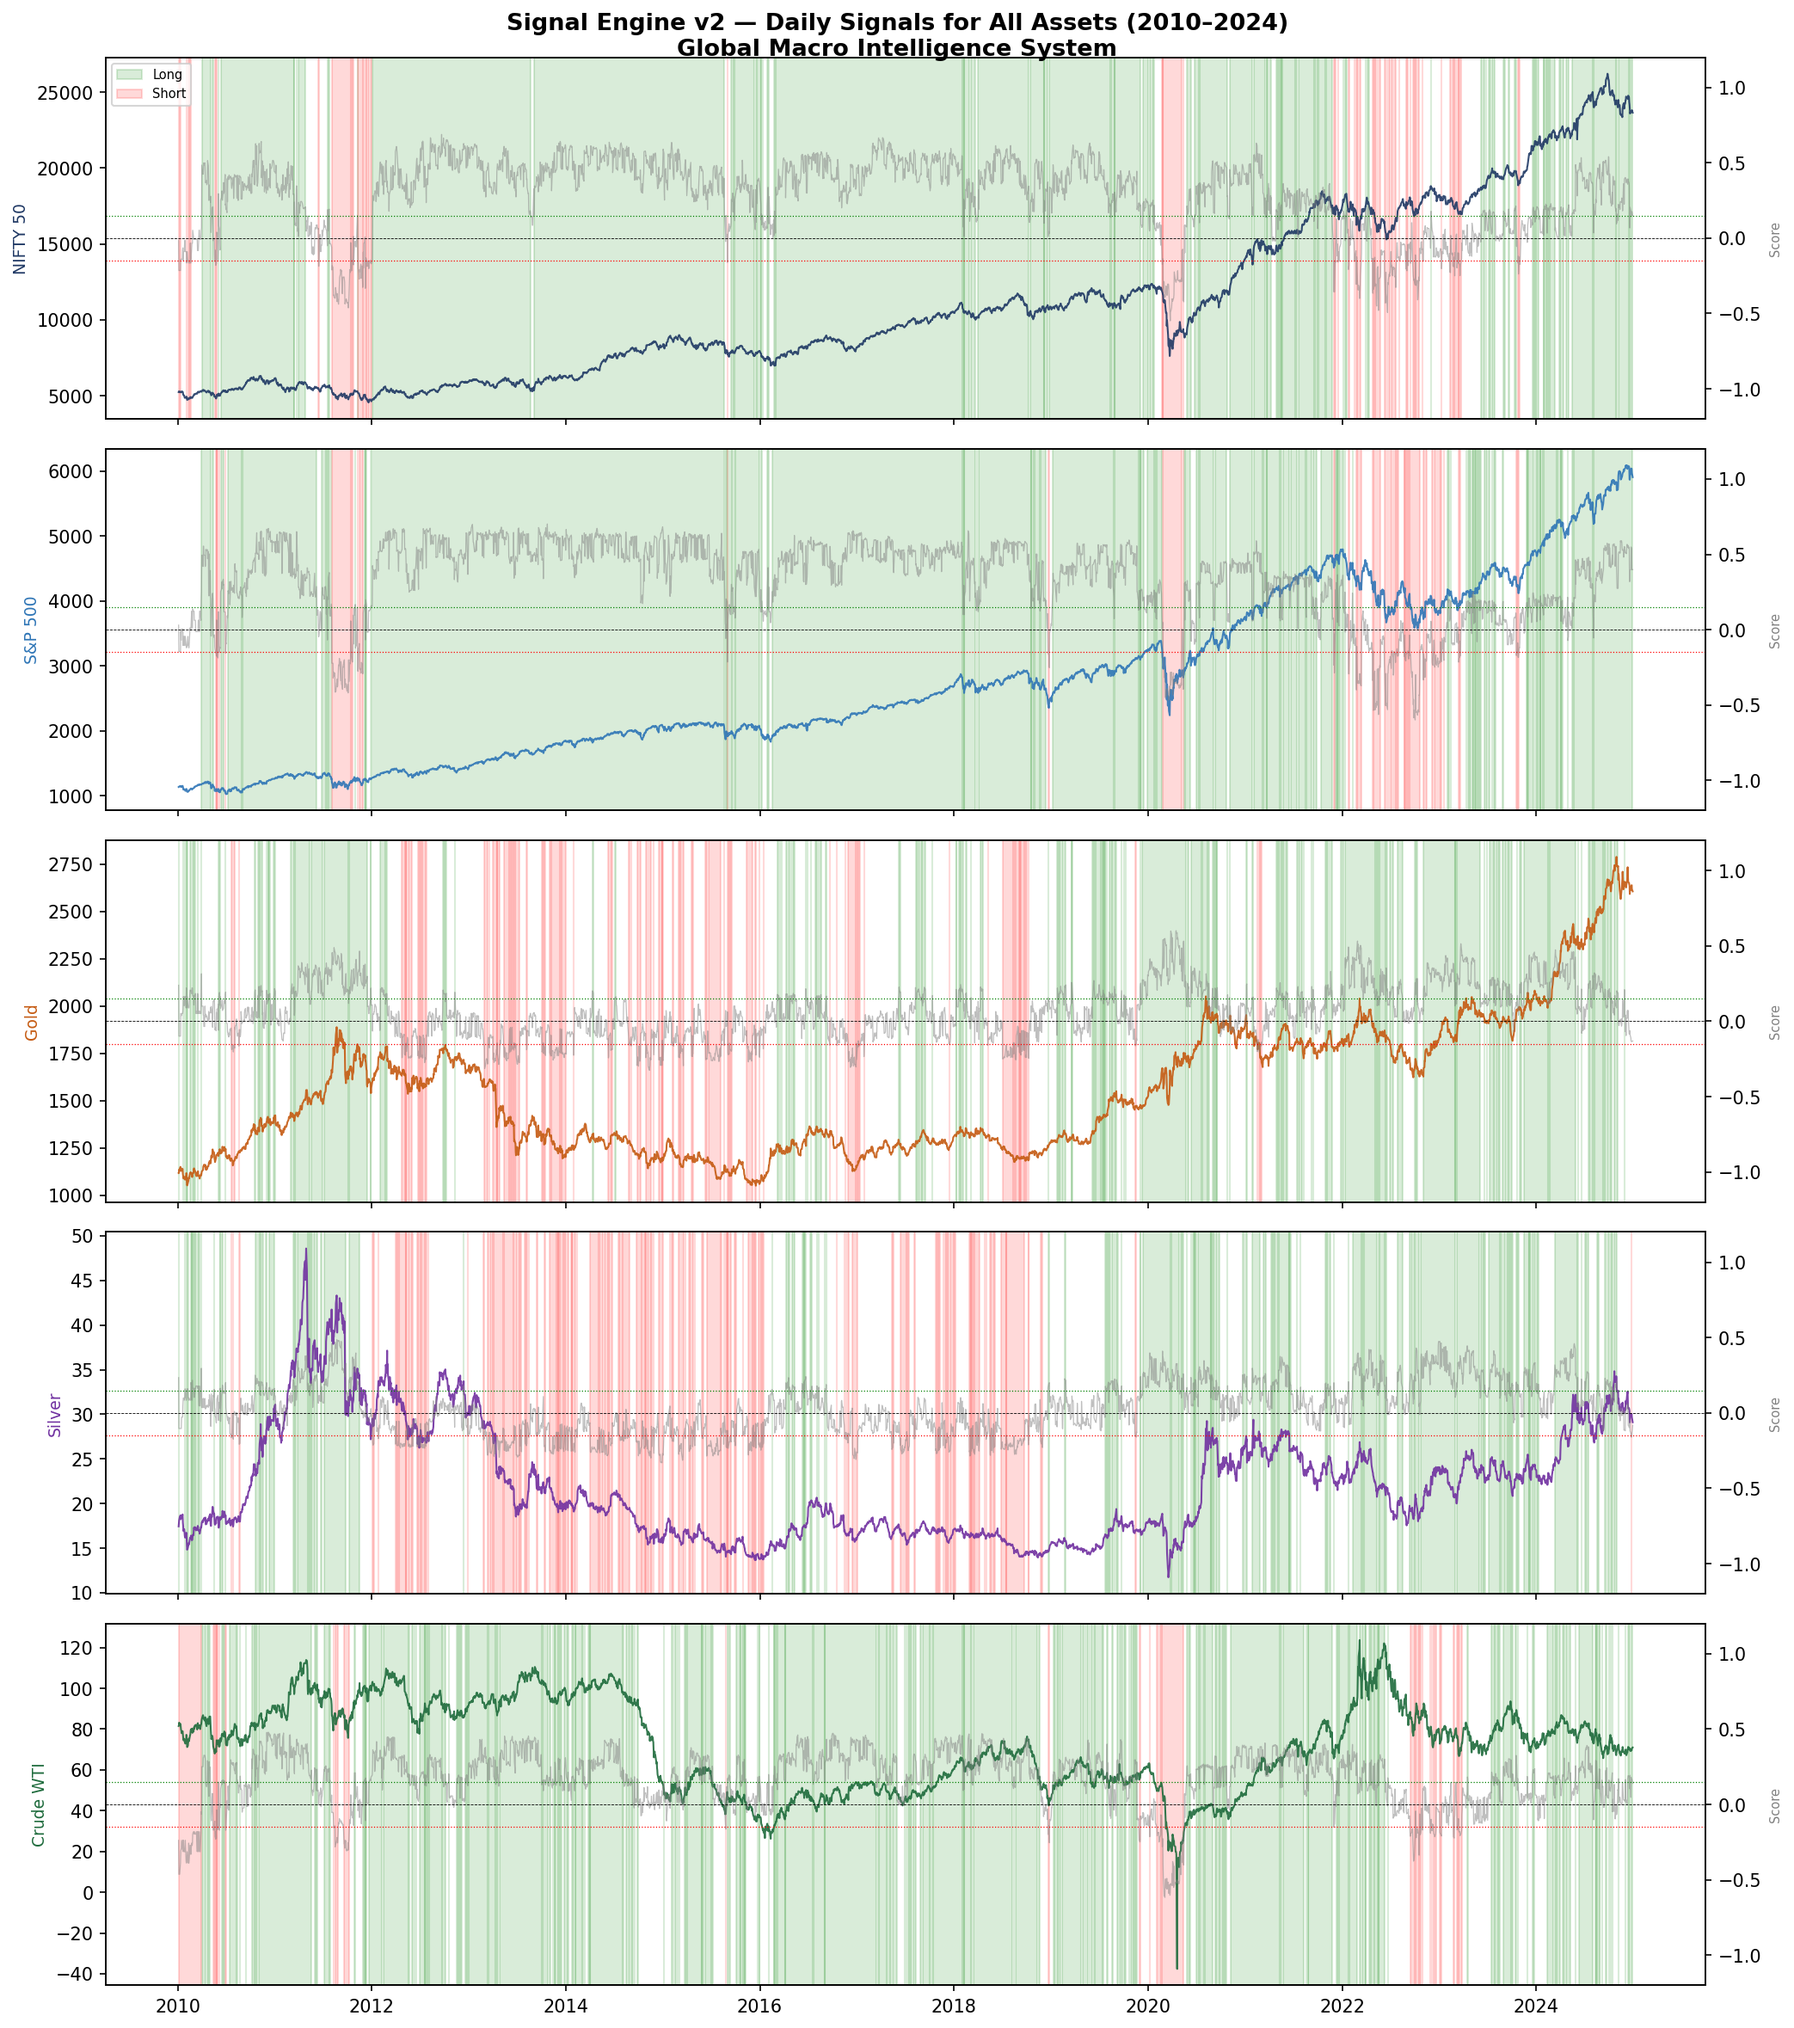
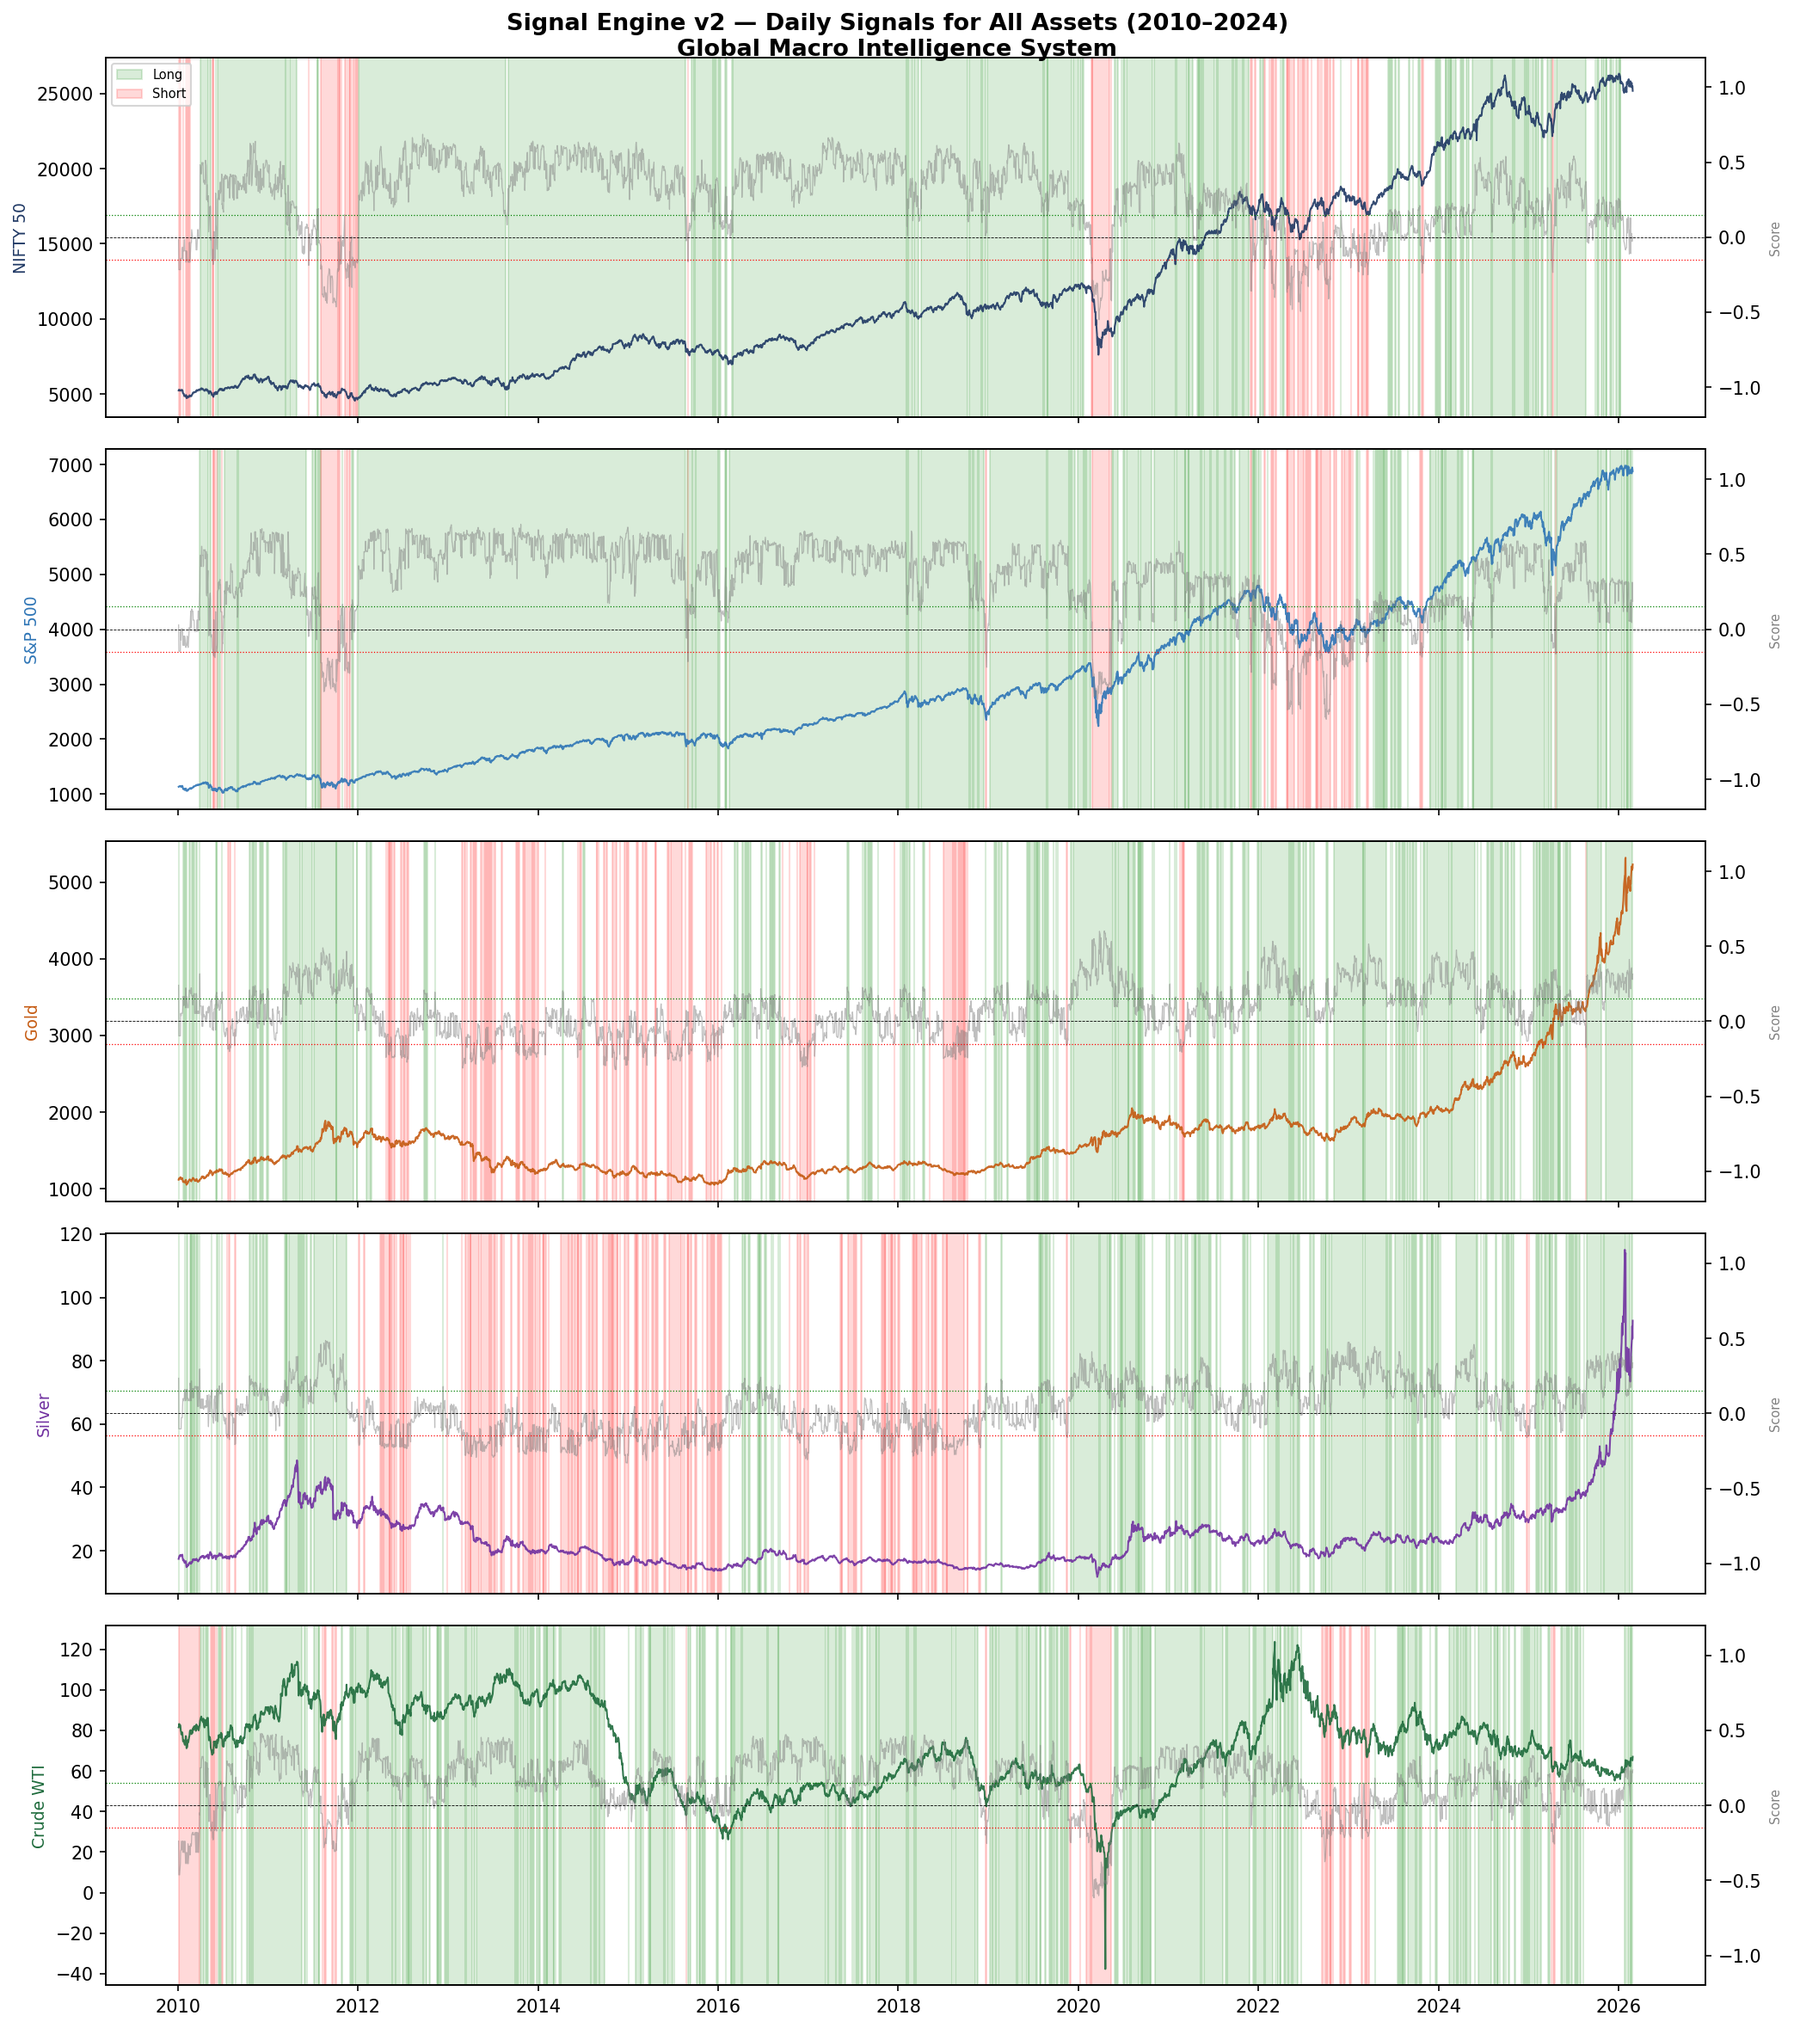
Live system detected US-Israel Iran strikes Black Swan event - Feb 28 2026

diff --git a/refresh_daily.py b/refresh_daily.py
@@ -1,0 +1,55 @@
+# ============================================================
+# DAILY REFRESH SCRIPT
+# Run this every morning before opening the dashboard
+# Takes about 2-3 minutes to complete
+# ============================================================
+
+import subprocess
+import sys
+import os
+from datetime import datetime
+
+BASE_PATH = os.path.dirname(os.path.abspath(__file__))
+
+def run_script(script_name):
+    print(f"\n{'='*50}")
+    print(f"Running {script_name}...")
+    print(f"{'='*50}")
+    result = subprocess.run(
+        [sys.executable, os.path.join(BASE_PATH, script_name)],
+        capture_output=False
+    )
+    if result.returncode == 0:
+        print(f"✅ {script_name} completed successfully")
+    else:
+        print(f"❌ {script_name} failed with error code {result.returncode}")
+    return result.returncode
+
+print(f"\n{'='*50}")
+print(f"GMIS DAILY REFRESH")
+print(f"{datetime.now().strftime('%A %d %B %Y — %H:%M')}")
+print(f"{'='*50}")
+
+scripts = [
+    '01_data_collection.py',    # Fresh prices
+    '02_macro_data.py',         # Fresh macro data
+    '03_database_setup.py',     # Rebuild database
+    '09_sentiment_engine.py',   # Live headlines
+    '12_signal_engine.py',      # Recalculate signals
+]
+
+failed = []
+for script in scripts:
+    code = run_script(script)
+    if code != 0:
+        failed.append(script)
+
+print(f"\n{'='*50}")
+print(f"REFRESH COMPLETE — {datetime.now().strftime('%H:%M')}")
+if failed:
+    print(f"⚠  Failed scripts: {', '.join(failed)}")
+else:
+    print(f"✅ All scripts completed successfully")
+    print(f"✅ Dashboard is ready with today's data")
+    print(f"\nRun: streamlit run dashboard.py")
+print(f"{'='*50}\n")

diff --git a/01_data_collection.py b/01_data_collection.py
@@ -8,7 +8,7 @@ import pandas as pd
 import os
 
 # ── Create data folder path ──────────────────────────────────
-data_path = os.path.join(os.path.dirname(os.path.abspath(__file__)), '..', 'data')
+data_path = os.path.join(os.path.dirname(os.path.abspath(__file__)), 'data')
 os.makedirs(data_path, exist_ok=True)
 
 # ── Define all assets to download ───────────────────────────
@@ -26,7 +26,8 @@ assets = {
 }
 
 START_DATE = '2010-01-01'
-END_DATE   = '2026-02-23'
+from datetime import datetime
+END_DATE = datetime.now().strftime('%Y-%m-%d')
 
 # ── Download each asset and save as CSV ─────────────────────
 print("Starting data download...\n")

diff --git a/dashboard.py b/dashboard.py
@@ -169,7 +169,7 @@ with st.sidebar:
     st.subheader("📅 Date Range")
     min_date = nifty.index.min().date()
     max_date = nifty.index.max().date()
-    start_date = st.date_input("From", value=datetime(2020, 1, 1).date(),
+    start_date = st.date_input("From", value=datetime(2015, 1, 1).date(),
                                 min_value=min_date, max_value=max_date)
     end_date   = st.date_input("To",   value=max_date,
                                 min_value=min_date, max_value=max_date)

diff --git a/02_macro_data.py b/02_macro_data.py
@@ -12,7 +12,8 @@ data_path = os.path.join(os.path.dirname(os.path.abspath(__file__)), 'data')
 os.makedirs(data_path, exist_ok=True)
 
 START_DATE = '2010-01-01'
-END_DATE   = '2026-02-23'
+from datetime import datetime
+END_DATE = datetime.now().strftime('%Y-%m-%d')
 
 # ── Define FRED series to download ───────────────────────────
 fred_series = {
